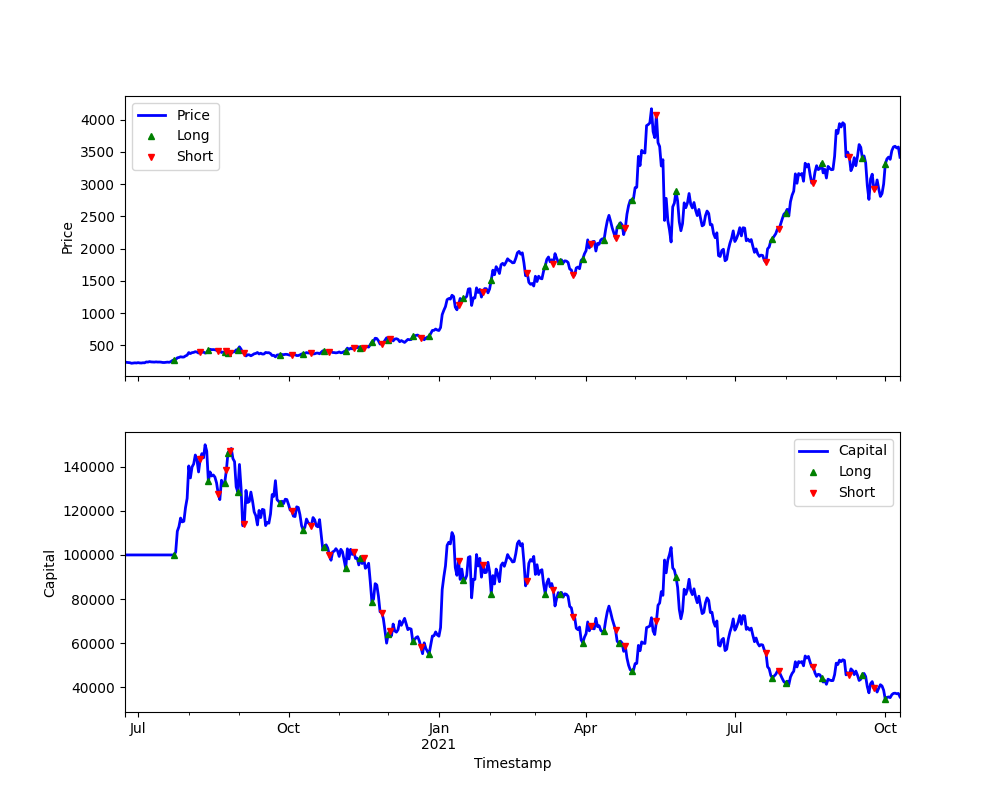
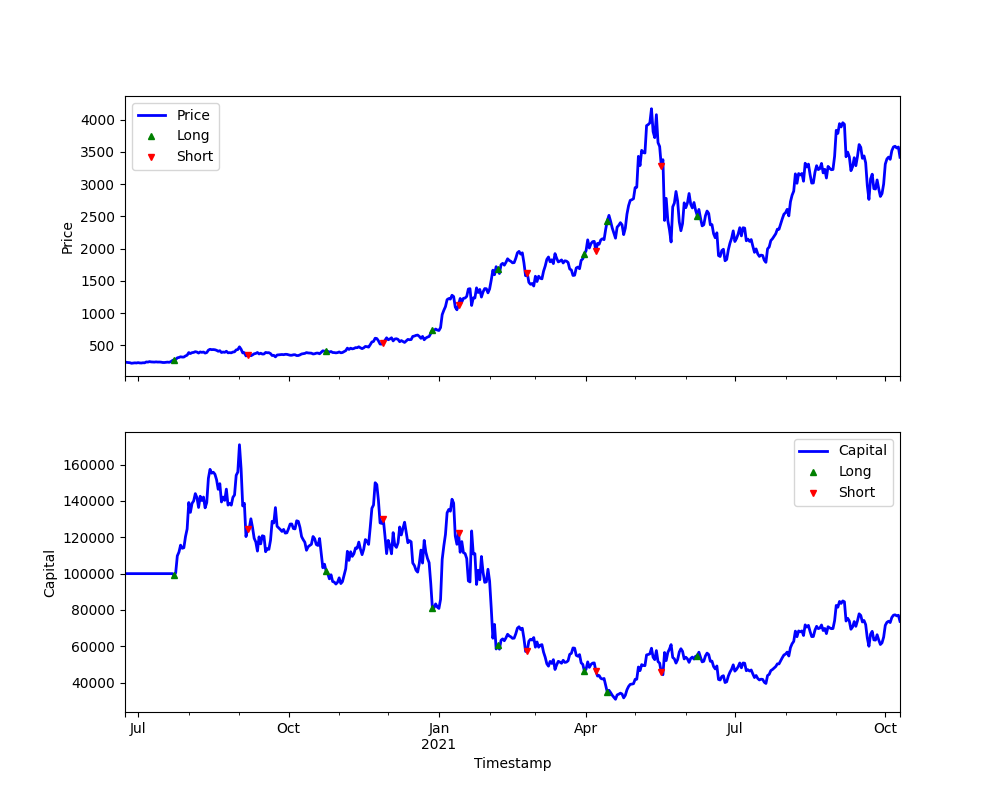
testing on 2019 data only

diff --git a/tradingSimulator.py b/tradingSimulator.py
@@ -50,7 +50,7 @@ actionSpace = 2
 
 # Variables setting up the default transaction costs
 percentageCosts = [0, 0.1, 0.2]
-transactionCosts = percentageCosts[1]/100
+transactionCosts = 0.01
 
 # Variables specifying the default capital at the disposal of the trader
 money = 100000
